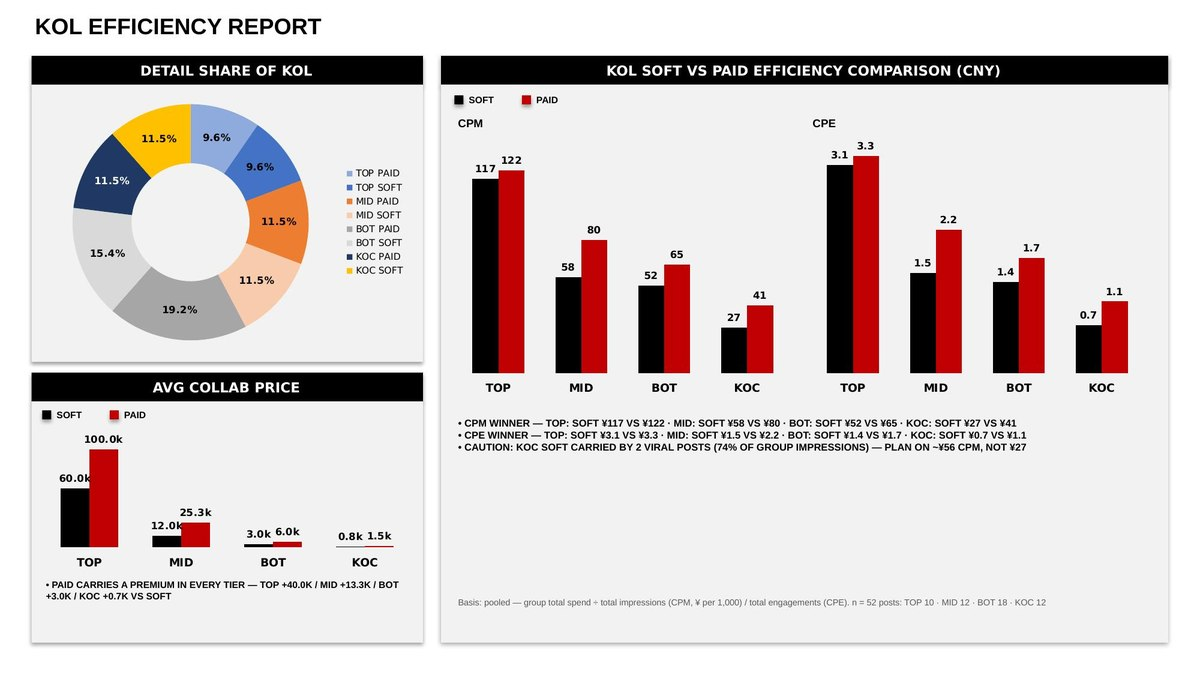
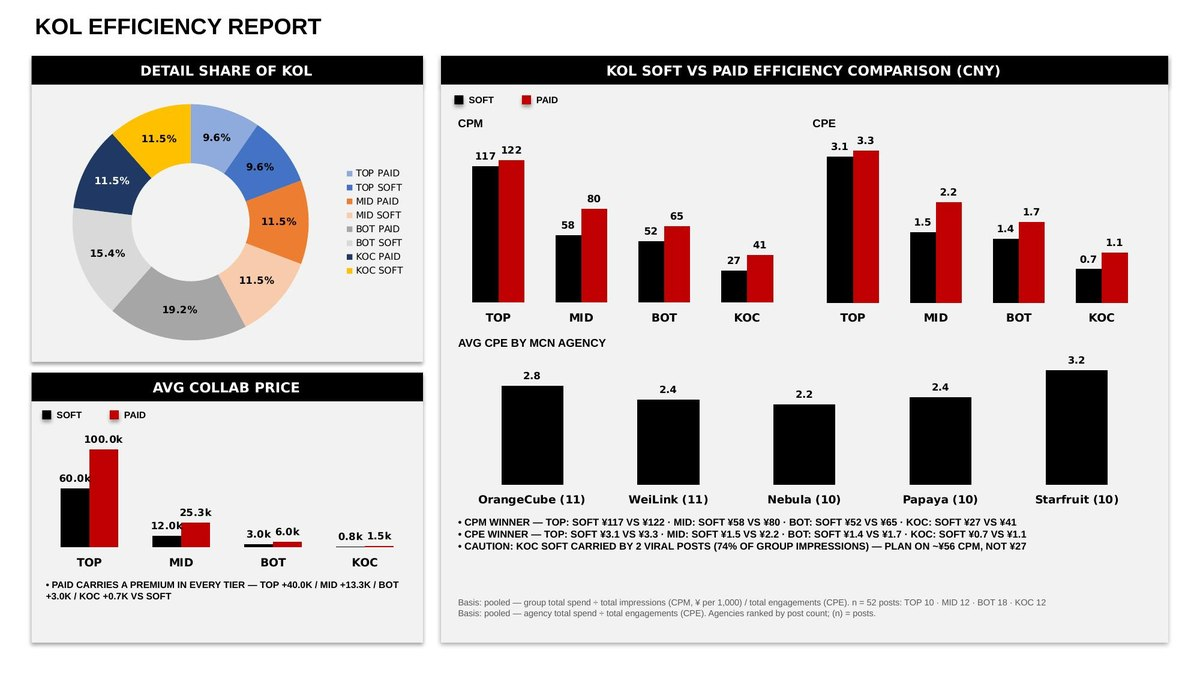
Simplify perimeter verdict wording; refresh efficiency demo screenshots
Column S for an in-perimeter blogger missing from DMR read as an
inference chain — 无博主但在Perimeter内→无帖子 — which users parsed as a
confusing double verdict. It now states the observation with the
evidence in parens: 无博主（博主在Perimeter内）. The status constant,
summary bucketing, and export semantics are unchanged, and the string
keeps the 无博主 prefix that evaluate.classify() collapses on, so stored
runs and the golden eval read both spellings identically (covered by a
legacy-wording test). The results-page badge follows suit
(无博主（Perimeter内）), and README examples are updated.

tools/make_demo_assets.py had pre-refactor imports (app.deck /
app.effreport) that no longer exist; fixed to app.efficiency.*, gave the
synthetic rows invented MCN agencies, and regenerated
app/static/eff_demo_{en,zh}.jpg so the site's demo image shows the
current one-slide layout with the AVG CPE BY MCN AGENCY row.

287 tests pass.

Claude-Session: https://claude.ai/code/session_01UR2Z26BP9wFVRYC989JHaS

diff --git a/tests/reconciler/test_perimeter.py b/tests/reconciler/test_perimeter.py
@@ -167,7 +167,7 @@ def test_primary_id_join_flips_to_in_perimeter(split_verdicts):
     assert v.status == NO_POST_IN_PERIMETER
     assert v.perimeter_method == "redbook-id"
     assert v.perimeter_redbook_id == U_IN
-    assert v.column_s() == "无博主但在Perimeter内→无帖子"
+    assert v.column_s() == "无博主（博主在Perimeter内）"
 
 
 def test_near_miss_same_name_different_id(split_verdicts):
@@ -227,8 +227,10 @@ def test_without_perimeter_behavior_unchanged(tmp_path, monkeypatch):
 
 def test_eval_classify_maps_new_statuses_to_no_blogger():
     from tools import evaluate as ev
-    assert ev.classify("无博主但在Perimeter内→无帖子") == "无博主"
+    assert ev.classify("无博主（博主在Perimeter内）") == "无博主"
     assert ev.classify("无博主（不在Perimeter内）") == "无博主"
+    # legacy wording — runs stored before the simplification replay this
+    assert ev.classify("无博主但在Perimeter内→无帖子") == "无博主"
 
 
 # ------------------------------------------- promotion & cached warnings
@@ -467,7 +469,7 @@ def test_membership_both(dual_split_verdicts):
     v = dual_split_verdicts["一颗鸡蛋🥚"]      # U_IN is in Micro AND Macro
     assert v.status == NO_POST_IN_PERIMETER
     assert v.perimeter_membership == "both"
-    assert v.column_s() == "无博主但在Perimeter内→无帖子"
+    assert v.column_s() == "无博主（博主在Perimeter内）"
     assert any("Micro perimeter" in n for n in v.notes)
     assert any("Macro perimeter" in n for n in v.notes)
 

diff --git a/tools/make_demo_assets.py b/tools/make_demo_assets.py
@@ -15,13 +15,16 @@ from pathlib import Path
 sys.path.insert(0, str(Path(__file__).resolve().parents[1]))
 from openpyxl import Workbook
 
-from app.deck import assert_chart_cache, build_deck
-from app.effreport import ReportConfig, analyze
+from app.efficiency.deck import assert_chart_cache, build_deck
+from app.efficiency.analysis import ReportConfig, analyze
 
 HEADERS = ["NO", "MCN", "CAMPAIGN", "TYPE", "LEVEL", "NAME", "FAN BASE（K)",
            "POST DATE", "MICRO MACRO", "POST LINK", "IMPRESSION", "LIKE",
            "COLLECTION", "COMMENT", "TTL  ENGAGEMENT", "PRICE", "CPM", "CPE"]
 PAID, SOFT = "报备图文", "软植图文"
+# invented agencies (never real MCN names) so the avg-CPE-by-MCN bar row is
+# visible in the demo; % 5 spreads them across every tier
+MCNS = ["Starfruit", "OrangeCube", "WeiLink", "Papaya", "Nebula"]
 
 # (type, level, fanbase_k, [(price, impressions), ...])
 GROUPS = [
@@ -61,7 +64,7 @@ def build_demo_bytes() -> bytes:
             like = round(eng * 0.72)
             coll = round(eng * 0.17)
             comm = eng - like - coll
-            ws.append([no, "", "DEMO WAVE", type_, level, f"demo{no:02d}",
+            ws.append([no, MCNS[no % 5], "DEMO WAVE", type_, level, f"demo{no:02d}",
                        fan + no, datetime(2026, 6, 1 + (no - 1) % 28), "",
                        f"http://xhslink.com/demo{no:03d}", impr, like, coll,
                        comm, eng, price, None, None])

diff --git a/app/reconciler/domain.py b/app/reconciler/domain.py
@@ -24,14 +24,18 @@ REVIEW = "REVIEW"
 NO_POST_IN_PERIMETER = "NO_POST_IN_PERIMETER"
 NO_BLOGGER_NOT_IN_PERIMETER = "NO_BLOGGER_NOT_IN_PERIMETER"
 
-# Human vocabulary for column S (reproduces the reference file exactly)
+# Human vocabulary for column S (reproduces the reference file exactly).
+# The perimeter variants state the observation plus the evidence in parens —
+# never an inference chain ("…→无帖子" read as a confusing double verdict).
+# Both MUST keep the 无博主 prefix: evaluate.classify() collapses annotations
+# by that prefix, and stored runs replay old strings through the same rule.
 S_TEXT = {
     MATCH: "",
     NO_BLOGGER: "无博主",
     NO_POST: "无帖子",
     LINK_ERROR: "Check链接错误",
     REVIEW: "人工复核",
-    NO_POST_IN_PERIMETER: "无博主但在Perimeter内→无帖子",
+    NO_POST_IN_PERIMETER: "无博主（博主在Perimeter内）",
     NO_BLOGGER_NOT_IN_PERIMETER: "无博主（不在Perimeter内）",
 }
 NAME_MISLABEL = "有 但是DMR博主名字标注错误"

diff --git a/app/reconciler/presentation.py b/app/reconciler/presentation.py
@@ -14,7 +14,7 @@ STATUS_BADGES = {
     NO_BLOGGER: ("noblogger", f"{S_TEXT[NO_BLOGGER]} NO_BLOGGER"),
     LINK_ERROR: ("linkerror", f"{S_TEXT[LINK_ERROR]} LINK_ERROR"),
     REVIEW: ("review", f"{S_TEXT[REVIEW]} REVIEW"),
-    NO_POST_IN_PERIMETER: ("periin", "Perimeter内 无帖子"),
+    NO_POST_IN_PERIMETER: ("periin", "无博主（Perimeter内）"),
     NO_BLOGGER_NOT_IN_PERIMETER: ("periout", "不在Perimeter"),
 }
 

diff --git a/README.md b/README.md
@@ -60,7 +60,7 @@ written to the export's `PERIMETER (无博主)` column. With any list active,
 `无博主` rows are split by perimeter membership — an offline join, no new
 external calls:
 
-- resolved `author_id ∈ REDBOOK_ID` set → `无博主但在Perimeter内→无帖子`
+- resolved `author_id ∈ REDBOOK_ID` set → `无博主（博主在Perimeter内）`
   (blogger is monitored yet absent from the export → a genuine DMR gap,
   bucketed with `无帖子`);
 - otherwise → `无博主（不在Perimeter内）`, with name-ladder hits recorded as
